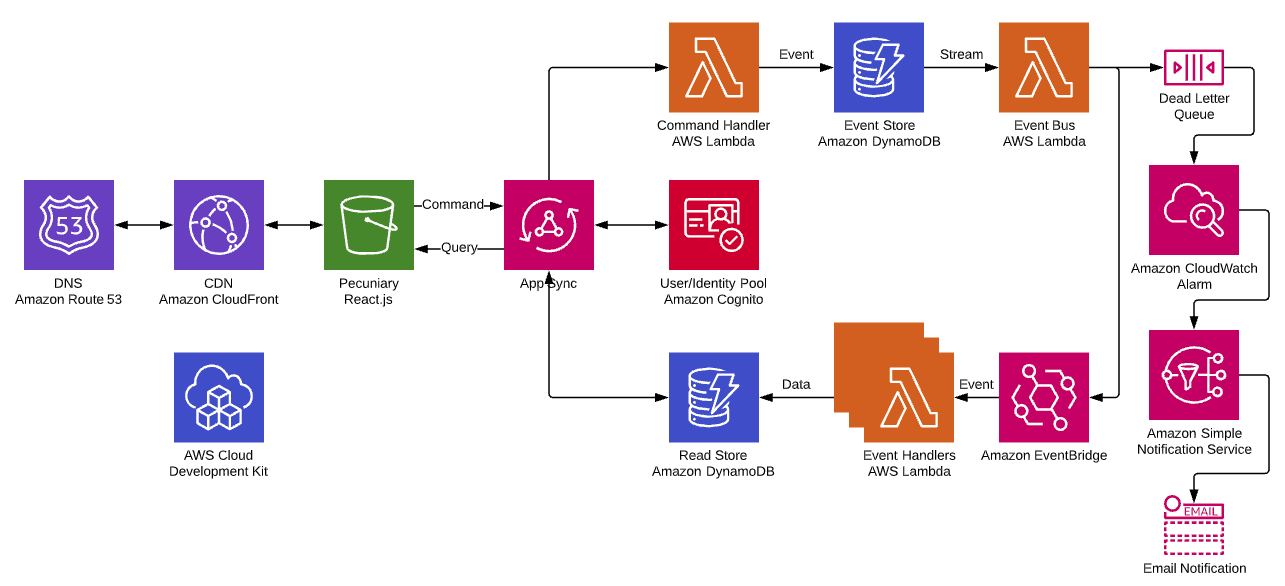
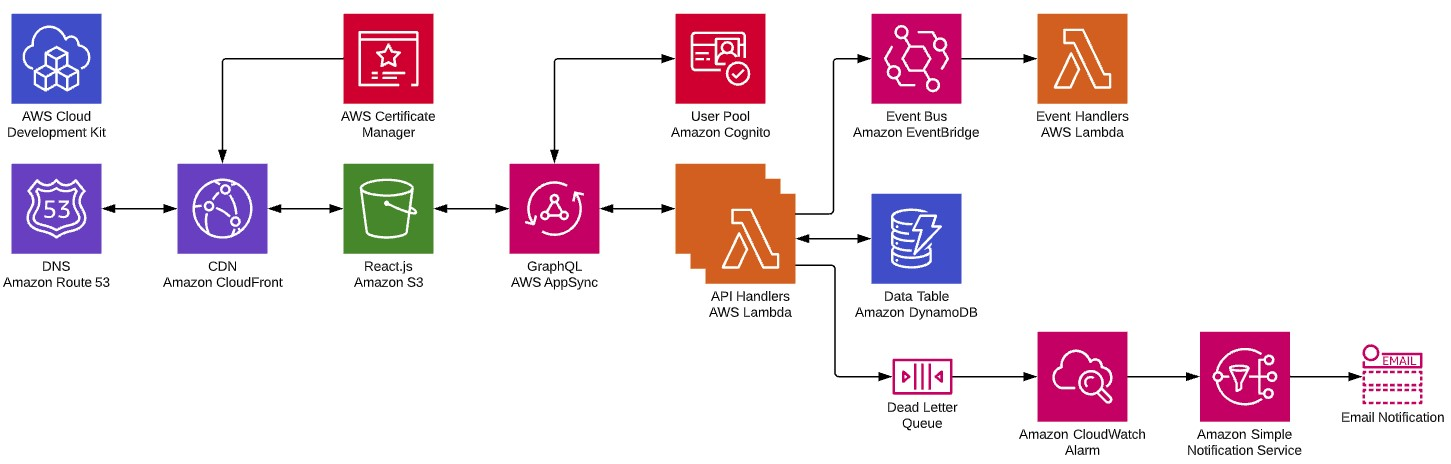
Update docs

diff --git a/README.md b/README.md
@@ -26,19 +26,17 @@
 </p>
 
 <p align="center">
-  <a href="ARCHITECTURE.md">Architecture</a> |
   <a href="#getting-started">Getting Started</a> |
+  <a href="ARCHITECTURE.md">CQRS Architecture</a> |
   <a href="#deployment">Development</a> |
   <a href="https://trello.com/b/7lA2gwTs/pecuniary">Trello</a> |
   <a href="#project-resources">Resources</a>
 </p>
 
-<h3 align="center">
-  Built with event sourcing and CQRS
-</h3>
-
 <p align="center">
-  An event-driven serverless microservices application built with <a href="https://nodejs.org">Node.js</a>
+  An <strong>event-driven serverless microservices</strong> application built with <a href="https://nodejs.org">Node.js</a>
+  <br />
+   ⚠ <strong>NOTE</strong> ⚠ The Event Sourcing and CQRS version is no longer maintained.  Please see <a href="()https://github.com/eric-bach/pecuniary/tree/cqrs-v1">branch</a> and <a href="()https://github.com/eric-bach/pecuniary/blob/cqrs-v1/ARCHITECTURE.md">CQRS Architecture</a> for the last release.
 </p>
 
 ![Top Level](diagrams/toplevel.jpg)
